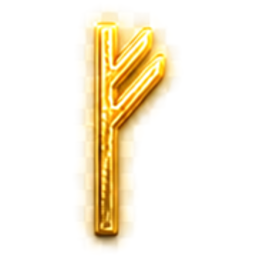
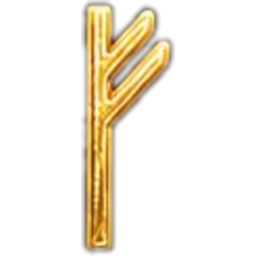
feat: use transparent rune PNG assets
Generated-by: Codex <noreply@openai.com>

Changed region(s): [[0.3125, 0.0, 0.6875, 1.0]]

diff --git a/src/lib/components/runeVisuals.ts b/src/lib/components/runeVisuals.ts
@@ -1,6 +1,6 @@
 // Pure trait -> visual mappings for the rune cards. Kept framework-free so the
 // completeness of every axis is unit-testable outside the Svelte component.
-import stoneCardBackground from '$lib/assets/card/stone.webp';
+import stoneCardBackground from '$lib/assets/card/stone.png';
 import blackColorIcon from '$lib/assets/colors/black.png';
 import blueColorIcon from '$lib/assets/colors/blue.png';
 import goldColorIcon from '$lib/assets/colors/gold.png';

diff --git a/tests/lib/components/runeVisuals.test.ts b/tests/lib/components/runeVisuals.test.ts
@@ -42,7 +42,7 @@ describe('rune visual maps', () => {
 	});
 
 	it('exposes a bundled stone card background asset', () => {
-		expect(CARD_BACKGROUND_ASSET).toMatch(/\.webp$/);
+		expect(CARD_BACKGROUND_ASSET).toMatch(/\.png$/);
 	});
 
 	it('covers all six colors and six elements with no extras', () => {
